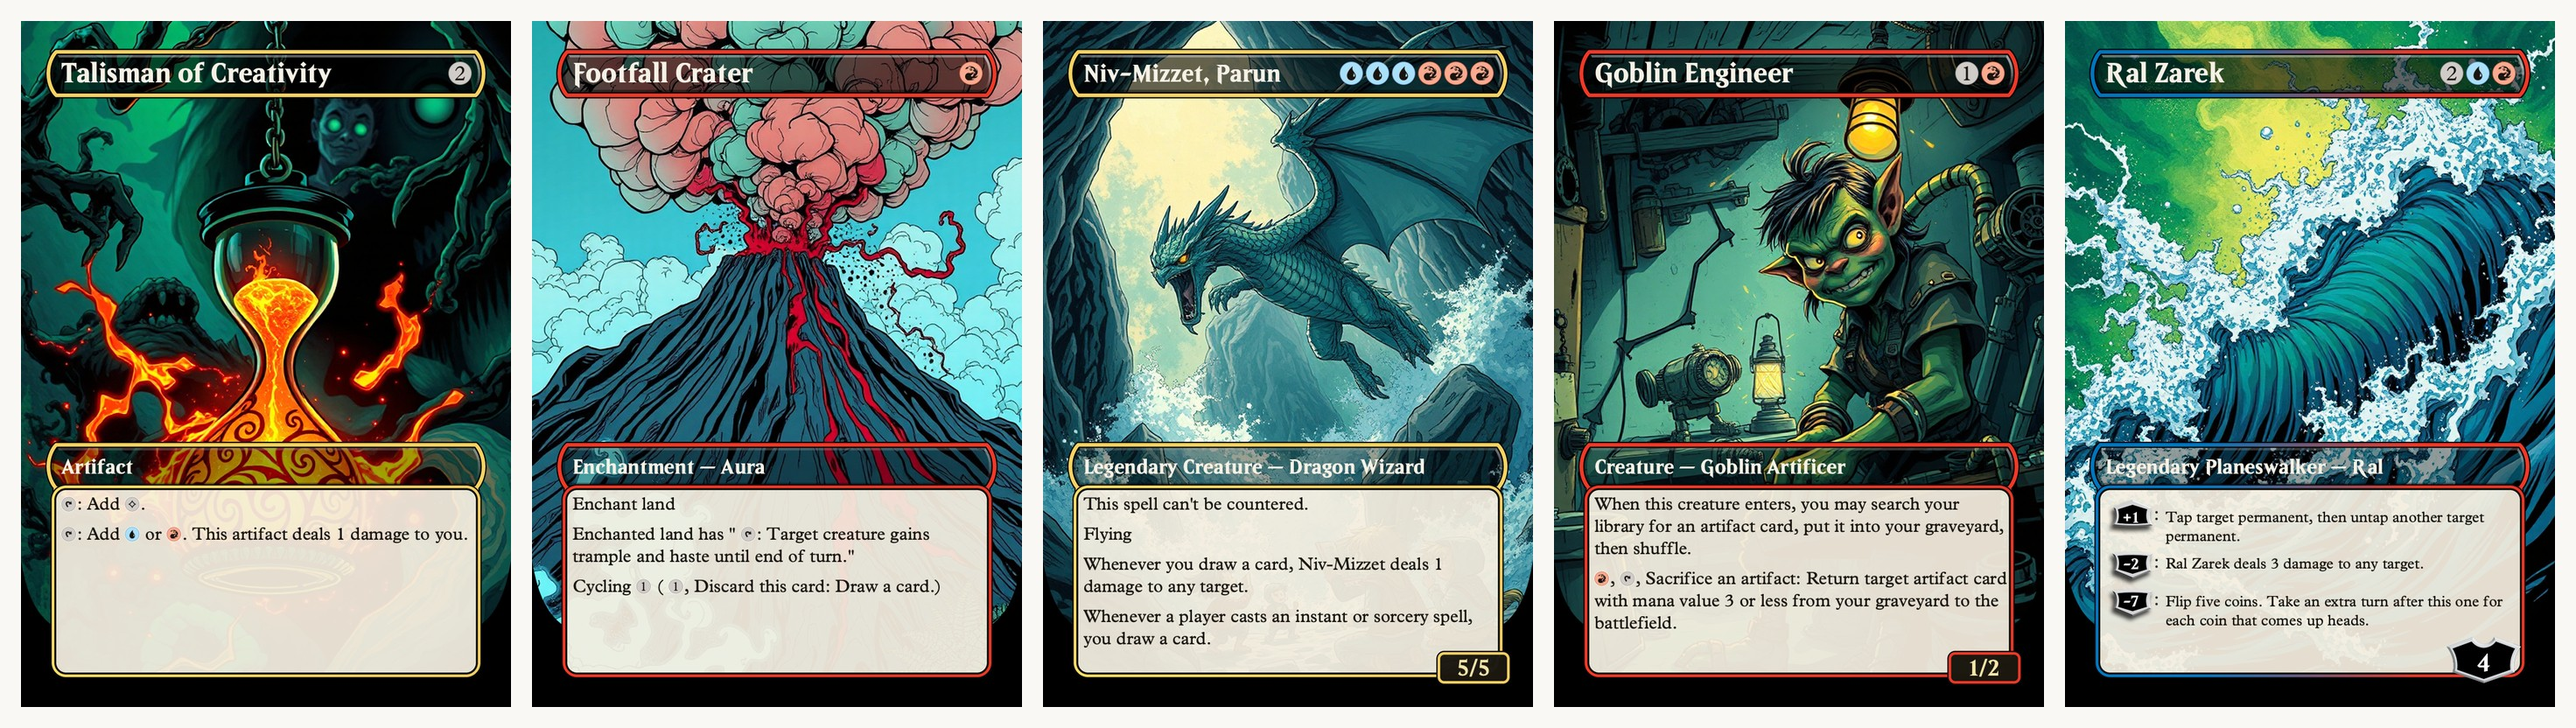
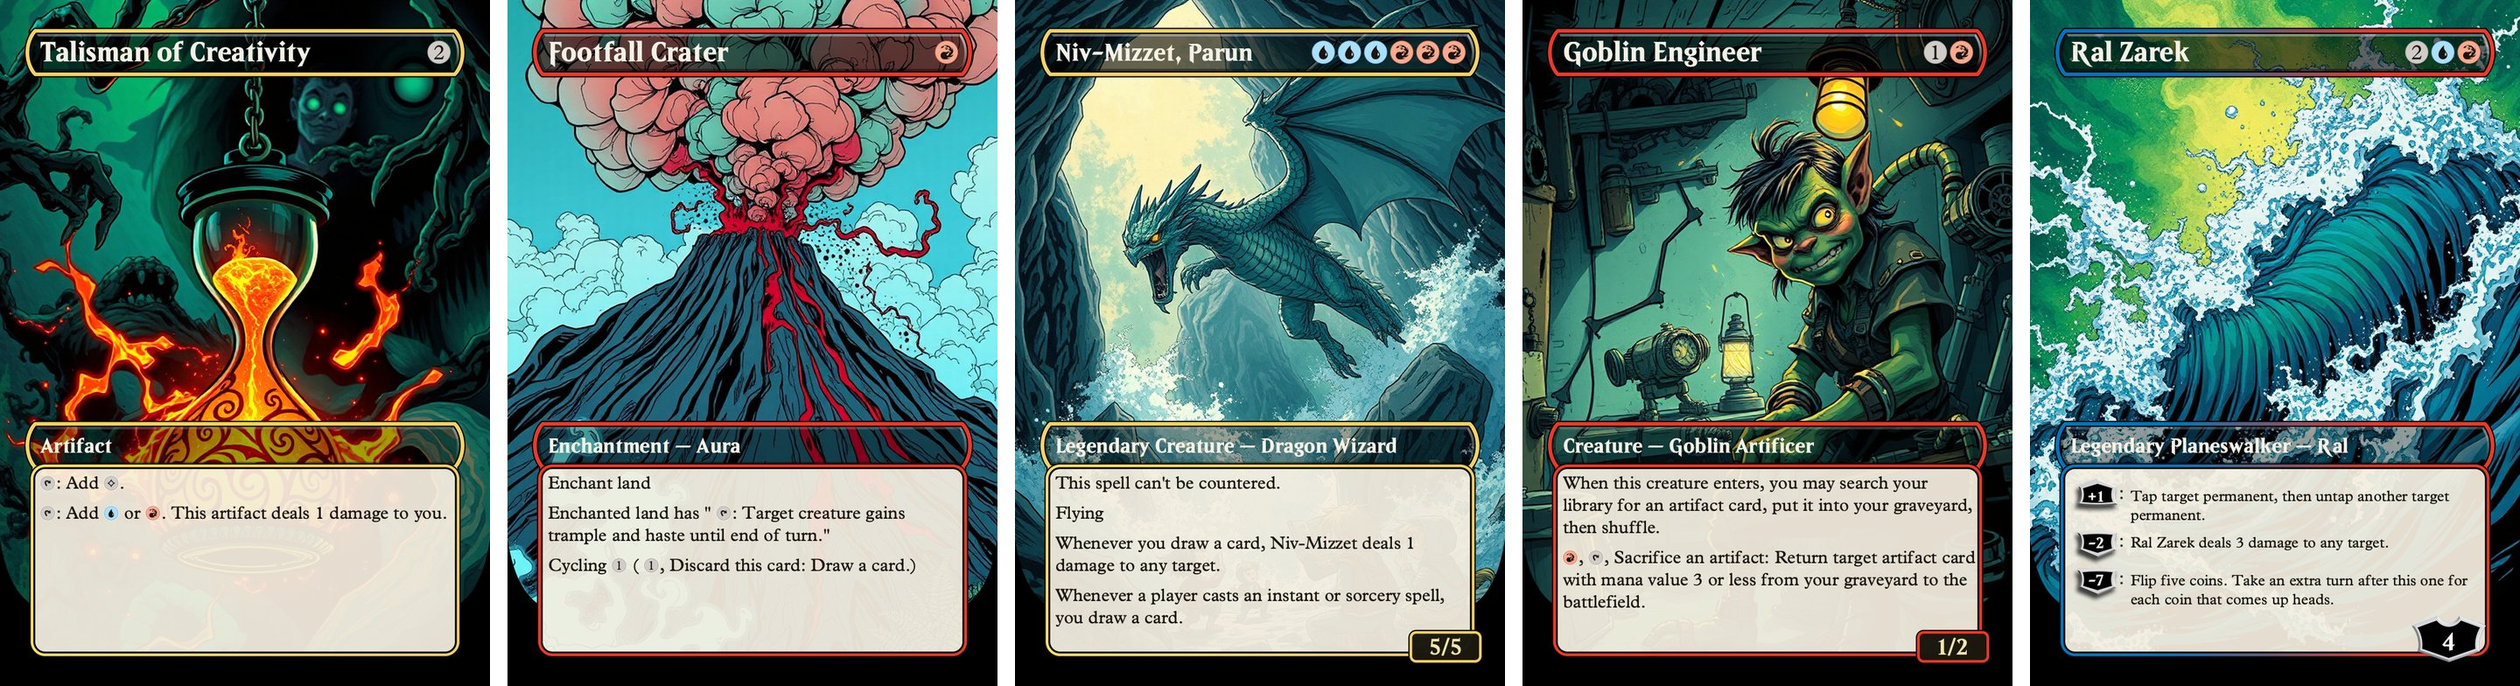
docs(readme): gallery images in light and dark variants for dark-mode readers
The sheets had an off-white mat that showed as a bright block on GitHub's dark
theme. Each gallery image is now a <picture> with a dark-background source for
prefers-color-scheme: dark and a white-background default, both without the
outer border.

Claude-Session: https://claude.ai/code/session_01CL91K3Fs5QZTnbko5qqosT

diff --git a/README.md b/README.md
@@ -4,7 +4,10 @@
 
 **Custom art for every card in your Magic deck, made on your own Mac.** Paste a decklist, drop in a few pictures whose look you love, and Deck Art Studio illustrates the whole deck in that style, frames every card, and hands you print-ready proxies. Nothing leaves your machine and nothing costs per image.
 
-<p align="center"><img alt="Eight generated cards across four decks and four art styles — fine-line ink, pastel film stills, comic-book ink, and picture-book pen and ink" src="docs/images/hero-gallery.jpg" /></p>
+<p align="center"><picture>
+  <source media="(prefers-color-scheme: dark)" srcset="docs/images/hero-gallery-dark.jpg">
+  <img alt="Eight generated cards across four decks and four art styles — fine-line ink, pastel film stills, comic-book ink, and picture-book pen and ink" src="docs/images/hero-gallery.jpg">
+</picture></p>
 
 **Every card above was generated on a laptop.** Four real Commander decks, four styles, each learned from a handful of reference images. The same pipeline handled ink drawings, comic pages, paintings and live-action film stills without a line of per-style code.
 
@@ -30,16 +33,28 @@ In the app: click **Import** and paste your decklist, add three to five referenc
 
 ## What it makes
 
-<p align="center"><img alt="Fine-line ink illustration style — five generated cards" src="docs/images/samples-fineline.jpg" /></p>
+<p align="center"><picture>
+  <source media="(prefers-color-scheme: dark)" srcset="docs/images/samples-fineline-dark.jpg">
+  <img alt="Fine-line ink illustration style — five generated cards" src="docs/images/samples-fineline.jpg">
+</picture></p>
 <p align="center"><em>Fine-line ink — teal, coral and gold on parchment: a canyon waterfall, a blue sinkhole, a demon in red, a mage over the rooftops, a city on a cliff</em></p>
 
-<p align="center"><img alt="Picture-book pen and ink style — five generated cards" src="docs/images/samples-picturebook.jpg" /></p>
+<p align="center"><picture>
+  <source media="(prefers-color-scheme: dark)" srcset="docs/images/samples-picturebook-dark.jpg">
+  <img alt="Picture-book pen and ink style — five generated cards" src="docs/images/samples-picturebook.jpg">
+</picture></p>
 <p align="center"><em>Picture-book pen and ink — a treehouse library, a wizard in the purple woods, a spotted wurm, a tutor buried in books, a candy-spired city</em></p>
 
-<p align="center"><img alt="Comic-book ink style — five generated cards" src="docs/images/samples-comic.jpg" /></p>
+<p align="center"><picture>
+  <source media="(prefers-color-scheme: dark)" srcset="docs/images/samples-comic-dark.jpg">
+  <img alt="Comic-book ink style — five generated cards" src="docs/images/samples-comic.jpg">
+</picture></p>
 <p align="center"><em>Comic-book ink — teal-and-coral smoke: a burning hourglass, a crater blowing its top, a dragon wizard, a goblin in her workshop, a rogue wave</em></p>
 
-<p align="center"><img alt="Pastel film-still style — five generated cards" src="docs/images/samples-filmstill.jpg" /></p>
+<p align="center"><picture>
+  <source media="(prefers-color-scheme: dark)" srcset="docs/images/samples-filmstill-dark.jpg">
+  <img alt="Pastel film-still style — five generated cards" src="docs/images/samples-filmstill.jpg">
+</picture></p>
 <p align="center"><em>Pastel film stills — symmetrical sets and deadpan animals under flat, even light: a ring under a pink dome, a raccoon bard, a temple on the water, a toy train, a cobra on a lotus</em></p>
 
 The style carries across the entire deck: creatures, lands, artifacts, sagas, battles and double-faced cards alike.
